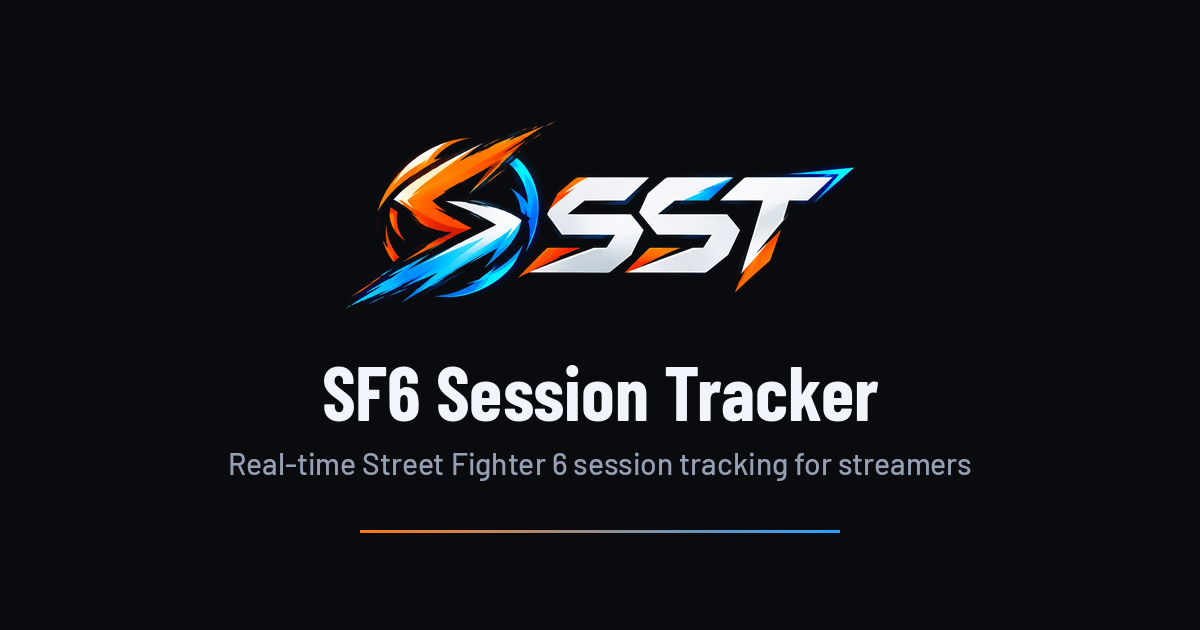
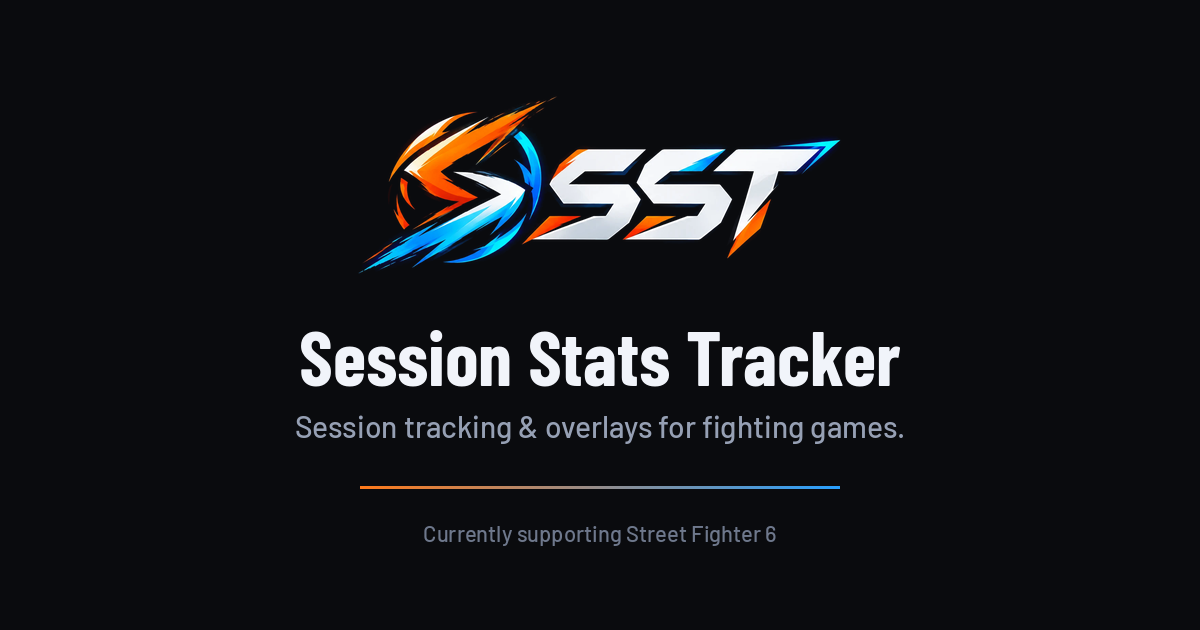
feat(brand): rename the product surface to SST — Session Stats Tracker
- Metadata: default title "SST — Session Stats Tracker", template "%s · SST", OG siteName,
  description "Session tracking, real-time stats and OBS overlays for fighting games. Currently
  supporting Street Fighter 6." (ES/EN); overlay tab title "SST Overlay"; Better Auth appName.
- Logo accessible name: "SST — Session Stats Tracker" (responsive behaviour unchanged).
- Landing: eyebrow = product name, "Built for fighting games. Currently supports Street
  Fighter 6." line, step 1 now "Install the Companion" (was stale "Enter your CFN User ID"),
  disclaimer "SST is not affiliated… Street Fighter and Street Fighter 6 are trademarks of
  Capcom Co., Ltd." (also on /help/companion).
- Companion naming in the app: "SST Companion for Street Fighter 6" (ES: "para").
- Open Graph image regenerated (same composition and assets): "Session Stats Tracker", tagline,
  "Currently supporting Street Fighter 6"; alt text updated.
- i18n test: official terms stay untranslated; the brand name is never translated.

CFN, Buckler, LP/MR, onboarding "Connect your SF6 player" and all technical names stay SF6.

Changed region(s): [[0.185, 0.5127, 0.8325, 0.7841], [0.2775, 0.1508, 0.7092, 0.4825], [0.3083, 0.8143, 0.6783, 0.8746]]

diff --git a/src/app/(app)/layout.tsx b/src/app/(app)/layout.tsx
@@ -10,9 +10,9 @@ export async function generateMetadata(): Promise<Metadata> {
     // Absolute URLs for the social preview (opengraph-image.png). Read directly, not via
     // getEnv(): prerendered pages must build without the full server environment.
     metadataBase: new URL(process.env.APP_URL ?? "http://localhost:3000"),
-    title: { default: "SF6 Session Tracker", template: "%s · SF6 Session Tracker" },
+    title: { default: "SST — Session Stats Tracker", template: "%s · SST" },
     description: t("description"),
-    openGraph: { siteName: "SF6 Session Tracker", type: "website" },
+    openGraph: { siteName: "SST — Session Stats Tracker", type: "website" },
     twitter: { card: "summary_large_image" },
   };
 }

diff --git a/src/app/(app)/help/companion/page.tsx b/src/app/(app)/help/companion/page.tsx
@@ -37,6 +37,7 @@ const STEPS = ["step1", "step2", "step3", "step4", "step5", "step6", "step7", "s
 /** Beta install guide for the companion: one page, plain language, no developer jargon. */
 export default async function CompanionHelpPage() {
   const t = await getTranslations("Help");
+  const tc = await getTranslations("Common");
   const user = await getCurrentUser();
   const { downloadUrl, checksumUrl, latestVersion } = getCompanionRelease();
 
@@ -161,6 +162,7 @@ export default async function CompanionHelpPage() {
           </div>
         ))}
       </section>
+      <footer className="mt-8 text-xs text-faint">{tc("notAffiliated")}</footer>
     </main>
   );
 }

diff --git a/src/i18n/i18n.test.ts b/src/i18n/i18n.test.ts
@@ -60,7 +60,9 @@ describe("catalogs", () => {
   it("keeps official game terms untranslated", () => {
     const t = createTranslator({ locale: "es", messages: typed(getAppMessages("es")) });
     expect(t("Dashboard.session.ratingChange", { unit: "MR" })).toBe("Cambio de MR");
-    expect(t("Landing.eyebrow")).toContain("Street Fighter 6");
+    expect(t("Landing.supportedGame")).toContain("Street Fighter 6");
+    // The product name is a brand: never translated.
+    expect(t("Landing.eyebrow")).toBe("SST — Session Stats Tracker");
     expect(t("Onboarding.cfnLabel")).toBe("CFN User ID");
   });
 });

diff --git a/src/app/(app)/page.tsx b/src/app/(app)/page.tsx
@@ -56,6 +56,7 @@ export default async function LandingPage() {
             <span className="text-magenta">{t("titleLine2")}</span>
           </h1>
           <p className="mt-6 max-w-lg text-lg text-muted">{t("subtitle")}</p>
+          <p className="mt-3 max-w-lg text-sm font-semibold text-cyan">{t("supportedGame")}</p>
           <div className="mt-8 flex flex-wrap gap-3">
             <Link href={user ? "/dashboard" : "/signup"} className={buttonClass("primary", "lg")}>
               {user ? t("goToDashboard") : t("createAccount")}

diff --git a/src/components/ui/Logo.tsx b/src/components/ui/Logo.tsx
@@ -26,7 +26,7 @@ export function Logo({ size = "md" }: { size?: keyof typeof HEIGHT }) {
   return (
     <Link
       href="/"
-      aria-label="SF6 Session Tracker"
+      aria-label="SST — Session Stats Tracker"
       className="flex shrink-0 items-center transition-opacity hover:opacity-90"
     >
       <picture>

diff --git a/src/server/auth/auth.ts b/src/server/auth/auth.ts
@@ -18,7 +18,7 @@ import { getEnv } from "@/server/env";
 function createAuth() {
   const env = getEnv();
   return betterAuth({
-    appName: "SF6 Session Tracker",
+    appName: "SST — Session Stats Tracker",
     secret: env.BETTER_AUTH_SECRET,
     baseURL: env.APP_URL,
     trustedOrigins: [env.APP_URL],

diff --git a/src/app/(overlay)/layout.tsx b/src/app/(overlay)/layout.tsx
@@ -3,7 +3,7 @@ import { overlayFontVariables } from "@/components/overlay/fonts";
 import "./overlay-root.css";
 
 export const metadata: Metadata = {
-  title: "SF6 Overlay",
+  title: "SST Overlay",
   robots: { index: false, follow: false },
   referrer: "no-referrer",
 };

diff --git a/scripts/brand/build_brand_assets.py b/scripts/brand/build_brand_assets.py
@@ -124,14 +124,18 @@ def main() -> None:
 
     if FONTS:
         og = Image.new("RGBA", (1200, 630), (*APP_BG, 255))
-        logo = fit_height(full, 190)
-        og.alpha_composite(logo, ((1200 - logo.width) // 2, 120))
+        logo = fit_height(full, 180)
+        og.alpha_composite(logo, ((1200 - logo.width) // 2, 95))
         draw = ImageDraw.Draw(og)
         title = ImageFont.truetype(str(FONTS / "BarlowCondensed-Bold.ttf"), 76)
         sub = ImageFont.truetype(str(FONTS / "Barlow-Medium.ttf"), 30)
+        small = ImageFont.truetype(str(FONTS / "Barlow-Medium.ttf"), 22)
+        # The logo already reads "SST"; the text spells out the name, the category and the
+        # (only) supported game, without implying other games work.
         for text, font, y, fill in (
-            ("SF6 Session Tracker", title, 345, (241, 244, 250)),
-            ("Real-time Street Fighter 6 session tracking for streamers", sub, 445, (150, 160, 180)),
+            ("Session Stats Tracker", title, 310, (241, 244, 250)),
+            ("Session tracking & overlays for fighting games.", sub, 408, (150, 160, 180)),
+            ("Currently supporting Street Fighter 6", small, 520, (110, 120, 140)),
         ):
             w = draw.textlength(text, font=font)
             draw.text(((1200 - w) / 2, y), text, font=font, fill=fill)
@@ -139,7 +143,7 @@ def main() -> None:
         for x in range(360, 840):
             t = (x - 360) / 480
             colour = tuple(round(a + (b - a) * t) for a, b in zip((255, 122, 26), (40, 160, 255)))
-            draw.line([(x, 530), (x, 532)], fill=colour)
+            draw.line([(x, 486), (x, 488)], fill=colour)
         og.convert("RGB").save(APP / "(app)/opengraph-image.png", optimize=True)
 
     for p in sorted([*PUBLIC.iterdir(), *DOCS.glob("sst-*.png"), APP / "favicon.ico", APP / "icon.png",
